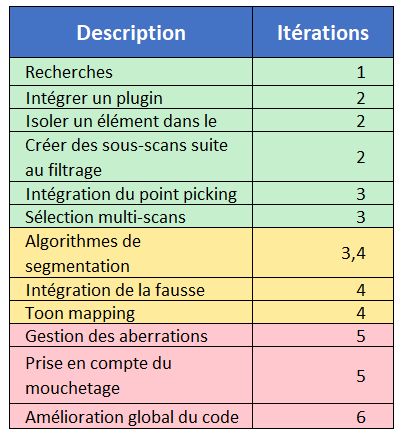
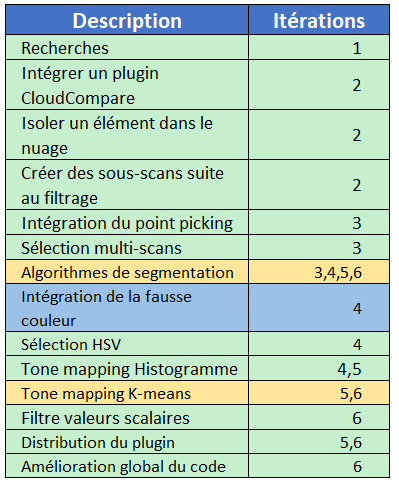
maj taches + correctif tonemapping

diff --git a/doc/rapport_description/Rapport_description_systeme_beta.tex b/doc/rapport_description/Rapport_description_systeme_beta.tex
@@ -125,6 +125,7 @@ Le tableau ci-dessous présente l'état d'avancement des composants de la soluti
     \item Vert : composant réalisé
     \item Orange : composant en cours de réalisation
     \item Rouge : composant pas encore réalisé
+    \item Bleu : composant déjà existant
 \end{itemize}
 
 \begin{figure}[H]
@@ -132,7 +133,13 @@ Le tableau ci-dessous présente l'état d'avancement des composants de la soluti
   \caption{\label{} Tableau d'avancement global}
 \end{figure}
 
-Nous pouvons observer que notre avancement est en bonne voie. Étant à la moitié du projet, nous avons réalisé la moité des tâches. Il faut aussi noter que les composants sont amenés à évoluer, avec le feedback du client à nos fins d'itérations. Par exemple, la tâche du point picking, ou encore le toon mapping sont des composants qui ont été soulevé suite à nos réunions et discussions avec le client et notre tuteur académique.
+Les composants et tâches planifiés ont évolué au cours de l'avancement du projet.
+Certains composants ont été soulevés suite aux feedbacks de nos réunions et discussions avec le client et notre tuteur académique comme le Tone mapping ou le point picking.
+D'autres tâches, filtrage HSV et valeurs scalaires sont apparues pour répondre à la tâche planifiée qu'est l'implémentation de la fausse couleur.
+
+En effet, nous avons remarqué que la fausse couleur était déjà intégrée à CloudCompare.
+Ainsi, il n'était plus nécessaire de la développer, mais à la place nous avons vu qu'il était possible de proposer un filtrage directement sur des champs scalaires.
+Étant à la fin du projet, on peut noter que l'ensemble des composants listés ont été implémentés et intégrés à la solution.
 
 \section{Description technologique de la solution}
 
@@ -421,7 +428,22 @@ Pour un N donné, on obtiendra une grille de $Q\times Q \times Q$ cubes / partit
 \newline
 
 Pour chaque partition, on cherche et attribue chaque point du nuage à celle qui lui est propre. Une fois fait,
-on calcule la couleur moyenne de toutes les partitions et on affecte les couleurs obtenues aux points correspondants. La figure ci-dessus montre les résultats obtenus en faisant varier le coefficient\newline
+on calcule la couleur moyenne de toutes les partitions et on affecte les couleurs obtenues aux points correspondants.
+\newline
+
+ \begin{figure}[H]
+\center
+\includegraphics[width=0.7\textwidth]{./img/HistogramDialog.png}
+\caption{\label{} Interface quantification par histogramme}
+\end{figure}
+
+L'image ci-dessus montre l'interface utilisateur pour la quantification par l'histogramme.
+Une spinBox permet à l'utilisateur de choisir le coefficient dans une amplitude de 1 à 255.
+ Le champ sur le nombre de couleurs de la palette après exécution se met à jour à chaque valeur changée dans l'indice. Cela permet à l'utilisateur de se projeter et de choisir l'indice qui lui convient le mieux.
+  Une fois le paramétrage réalisé, un nouveau sous-nuage est créé.
+
+L'image ci-dessous illustre les résultats obtenus en faisant varier le coefficient\newline
+
 
 \begin{figure}[H]
 \center
